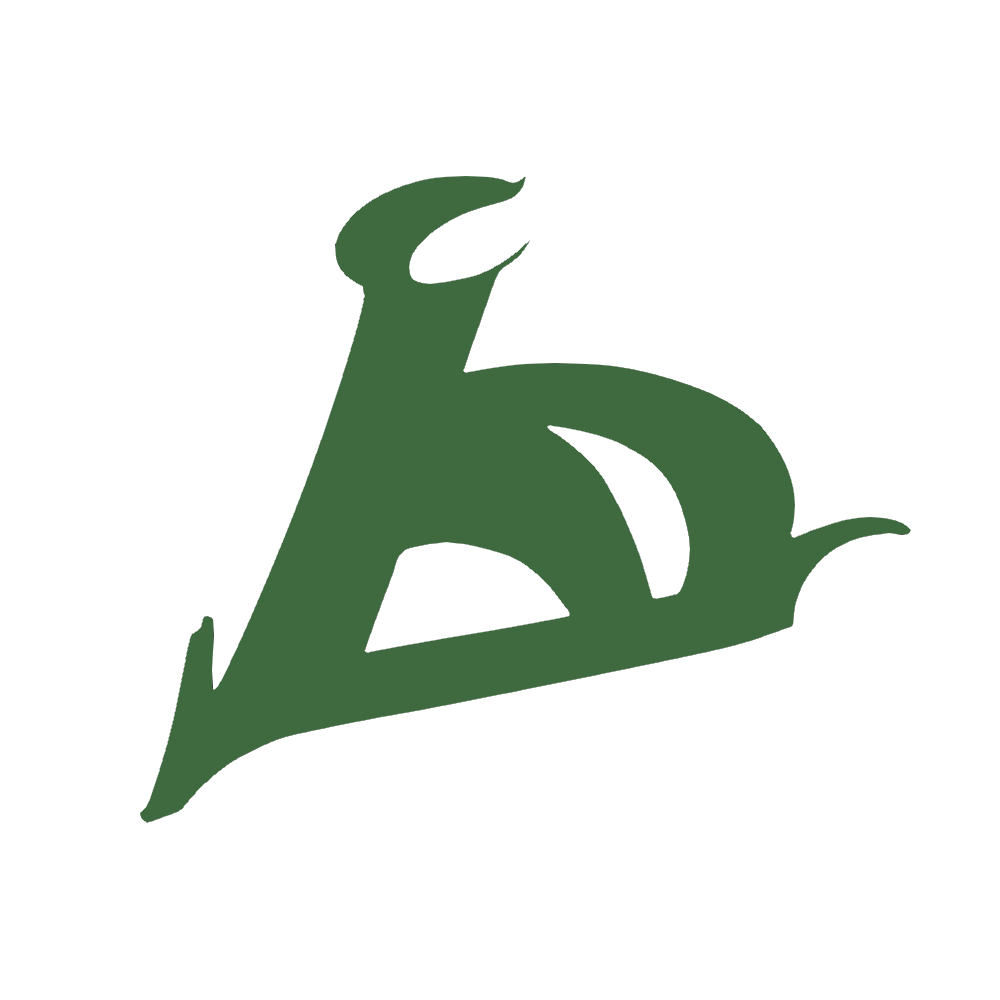
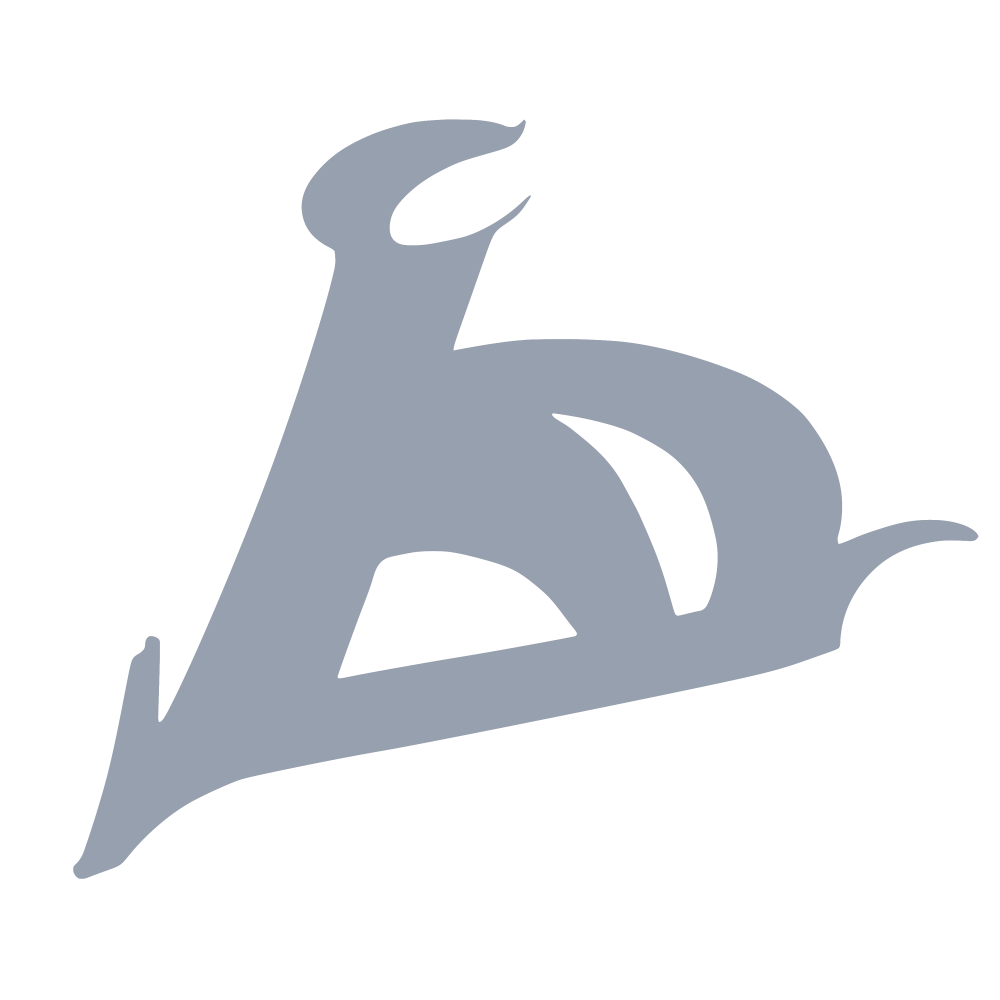
profile pic upage

Changed region(s): [[0.062, 0.093, 0.992, 0.899]]

diff --git a/style.css b/style.css
@@ -152,7 +152,7 @@ body{
 }
 
 .bgargil{
-    background-color: #3f6a40!important;
+    background-color: #97A0AF !important;
 }
 
 .bgimportant {
@@ -188,7 +188,7 @@ body{
 }
 
 .txtargil{
-    color: #3f6a40 !important;
+    color: #97A0AF !important;
 }
 
 .bcargil {
